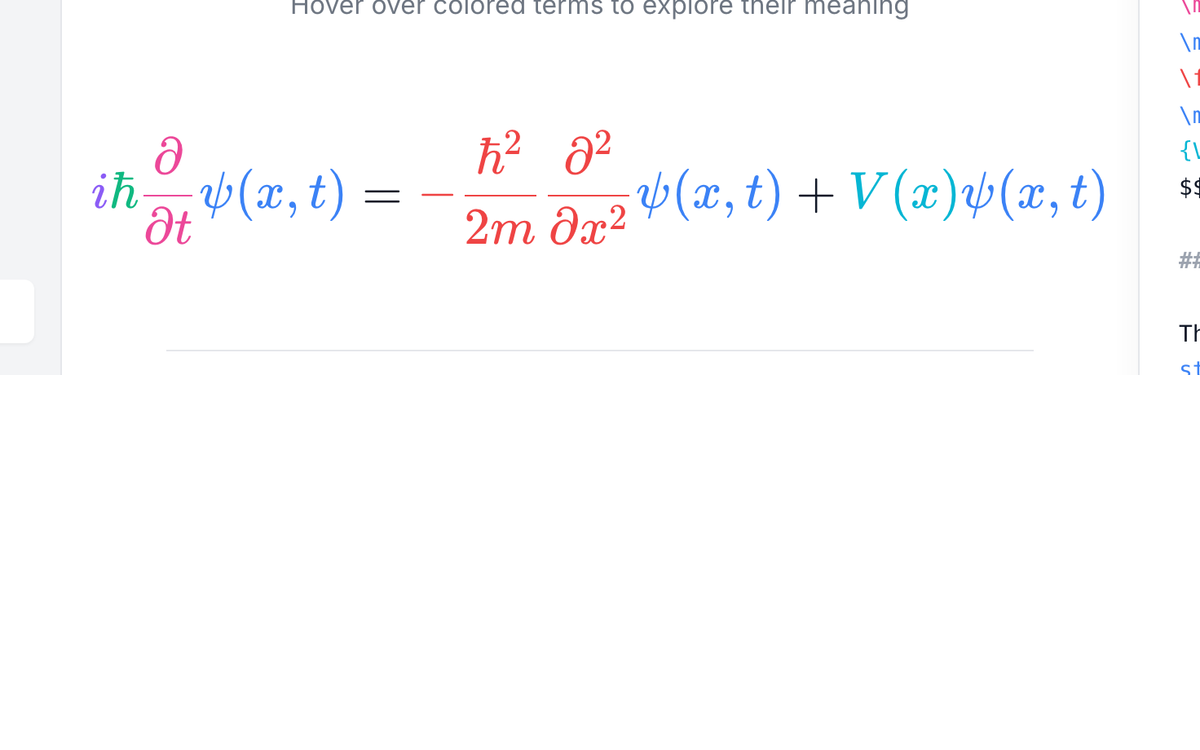
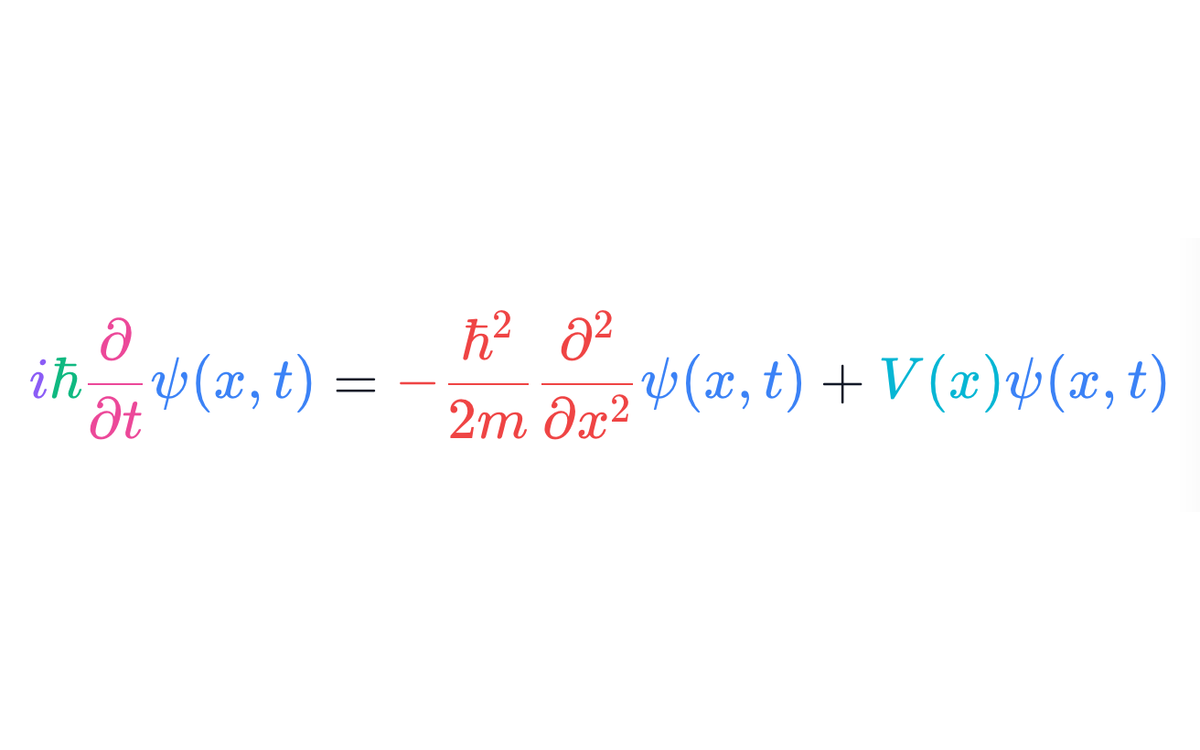
fix(projects): reframe TagOverflow and Equations thumbnails
TagOverflow was clipped to a hardcoded box, but its force layout settles
somewhere different on every run, so the graph came out cut off with half
the tile empty. Measure the rendered extent of `g.graph` instead, and hide
the settings panel floating over it.

Equations Explained Colorfully padded its clip by 40px, which pulled in
the caption above and a sliver of the markdown editor three pixels to its
right. Clip the equation exactly.

Letterboxed thumbnails now centre instead of aligning to the top, so a
wide artefact sits in the middle of the tile rather than against its edge.

diff --git a/scripts/projectShots.ts b/scripts/projectShots.ts
@@ -106,9 +106,9 @@ export const SHOTS: Record<string, Shot> = {
     clip: { x: 24, y: 210, width: 1392, height: 870 },
   },
   'equations-explained-colorfully': {
-    // The rendered equation itself, not the markdown pane beside it.
+    // The rendered equation itself. No padding: the markdown editor starts
+    // three pixels to its right and the caption sits just above it.
     selector: '#equation-container',
-    pad: 40,
     fit: 'contain',
   },
   'webr-ggplot2-playground': {
@@ -176,9 +176,21 @@ export const SHOTS: Record<string, Shot> = {
     selector: '.field--name-field-game-screenshot img',
   },
   tagoverflow: {
-    // Just the tag graph — the control panel and side boxes sit outside this box.
-    clip: { x: 370, y: 130, width: 600, height: 375 },
-    wait: 5000,
+    // The force layout settles somewhere different on every run, so measure the
+    // graph group's rendered extent rather than guessing a fixed box.
+    selector: 'g.graph',
+    // The settings panel floats over the top-left of the graph area.
+    prepare: `
+      (() => {
+        const panel = document.querySelector('#hideable');
+        const box = panel && (panel.parentElement || panel);
+        if (box) box.style.visibility = 'hidden';
+      })()
+    `,
+    prepareWait: 500,
+    pad: 24,
+    fit: 'contain',
+    wait: 6000,
   },
   "fellows-and-alumni-of-the-polish-children-s-fund": {
     selector: 'svg',

diff --git a/scripts/captureProjectScreenshots.ts b/scripts/captureProjectScreenshots.ts
@@ -52,7 +52,10 @@ async function normalise(input: Buffer, fit: 'cover' | 'contain'): Promise<Buffe
   return sharp(input, { animated: false })
     .resize(OUT_WIDTH, OUT_HEIGHT, {
       fit,
-      position: 'top',
+      // Cropping keeps the top, where a screenshot's subject usually is.
+      // Letterboxing centres, so a wide artefact sits in the middle of the tile
+      // rather than hard against its top edge.
+      position: fit === 'contain' ? 'center' : 'top',
       background: { r: 255, g: 255, b: 255, alpha: 1 },
     })
     .png()
